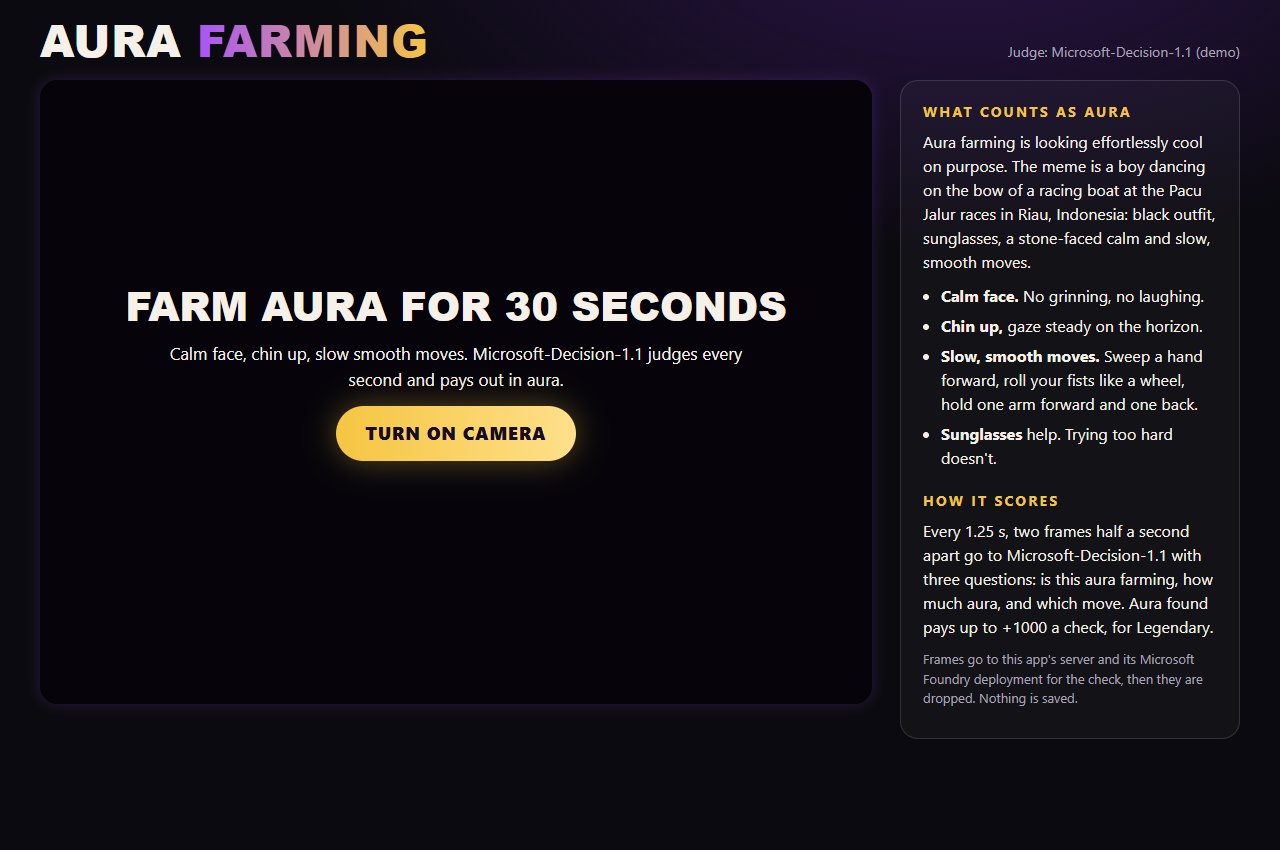
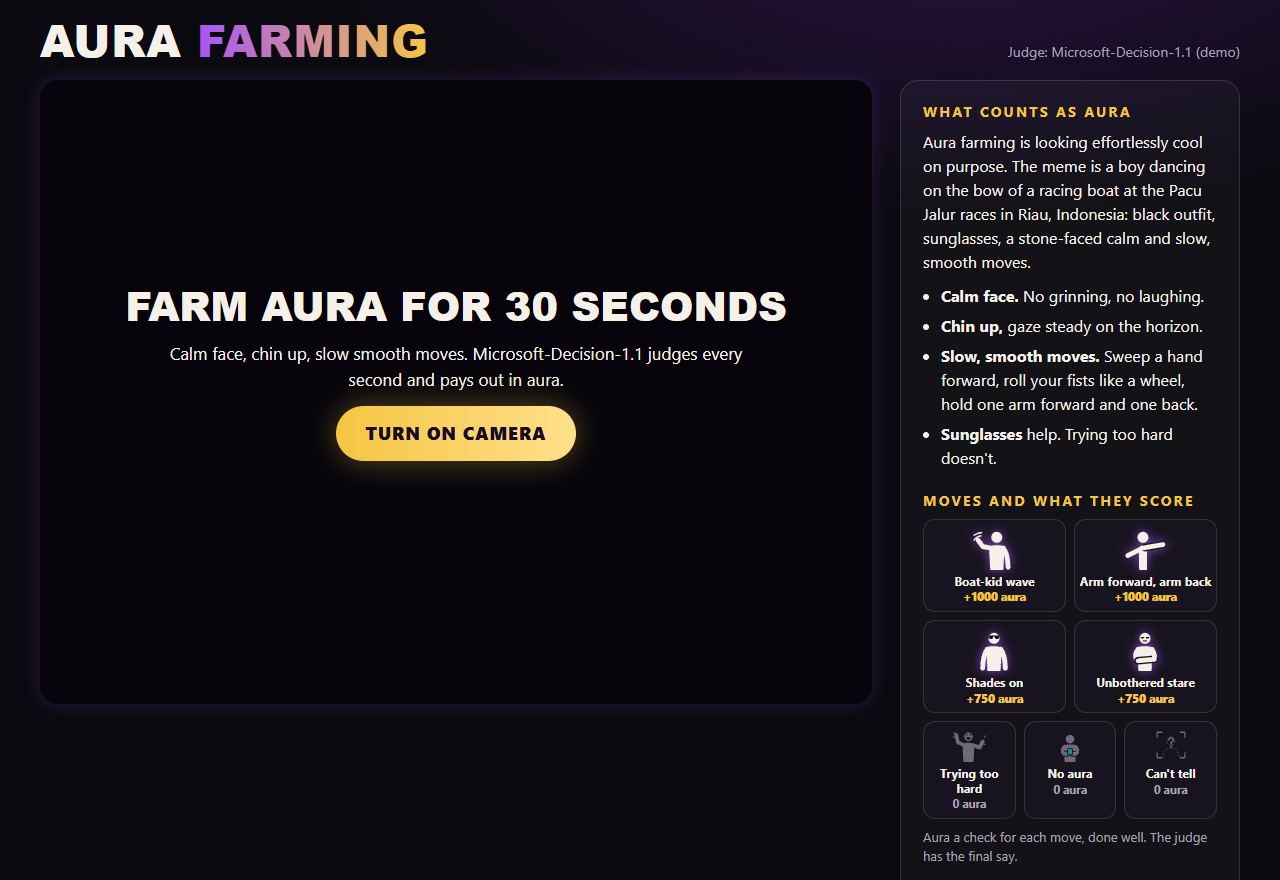
Show a silhouette of each move and what it scores in the guide
The guide on the main page gets a card for each move the judge can read: a small SVG silhouette, the move's name as the live read shows it, and what it pays a check when done well. During a round, the card for the move in the latest read lights up.

The move doesn't change the points: the cards show the level the judge's rubric ties each move to. A new test keeps the cards in step with lib/aura.js and the live-read names, and checks the page has no inline styles, which its CSP blocks. The README screenshots and text are updated, and .webappignore leaves out .idea/.

diff --git a/public/index.html b/public/index.html
@@ -73,9 +73,89 @@
       <li><b>Slow, smooth moves.</b> Sweep a hand forward, roll your fists like a wheel, hold one arm forward and one back.</li>
       <li><b>Sunglasses</b> help. Trying too hard doesn't.</li>
     </ul>
+    <h2>Moves and what they score</h2>
+    <!-- One card for each move the judge can read (lib/aura.js MOVES), named as in the live read. -->
+    <ul class="moves">
+      <li class="move" data-move="boat_kid_wave">
+        <svg viewBox="0 0 64 64" aria-hidden="true">
+          <circle cx="36" cy="16.5" r="8" fill="currentColor"/>
+          <path d="M25 35Q25 28 32 28H40Q47 28 47 35L45.5 64H26.5Z" fill="currentColor"/>
+          <path d="M27 32L16 30L9 21M45.5 32Q52 40 52.5 60" fill="none" stroke="currentColor" stroke-width="7" stroke-linecap="round" stroke-linejoin="round"/>
+          <path d="M2.9 20.8A16 16 0 0 1 13.2 14.2M2.8 13.5A20.5 20.5 0 0 1 14.2 9.6" fill="none" stroke="currentColor" stroke-width="2.2" stroke-linecap="round"/>
+        </svg>
+        <b>Boat-kid wave</b><span>+1000 aura</span>
+      </li>
+      <li class="move" data-move="arm_forward">
+        <svg viewBox="0 0 64 64" aria-hidden="true">
+          <path d="M29 32L7 43" fill="none" stroke="currentColor" stroke-width="7" stroke-linecap="round"/>
+          <circle cx="29" cy="16.5" r="8" fill="currentColor"/>
+          <path d="M23 35Q23 28 29 28Q35 28 35 35V64H23.5Z" fill="currentColor"/>
+          <path class="halo" d="M32 31.5L58 27" fill="none" stroke-width="11" stroke-linecap="round"/>
+          <path d="M29 32L58 27" fill="none" stroke="currentColor" stroke-width="7" stroke-linecap="round"/>
+        </svg>
+        <b>Arm forward, arm back</b><span>+1000 aura</span>
+      </li>
+      <li class="move" data-move="shades_on">
+        <svg viewBox="0 0 64 64" aria-hidden="true">
+          <circle cx="32" cy="16.5" r="8" fill="currentColor"/>
+          <path class="cut" d="M24.3 12.5H31V14.5Q31 17.5 28 17.5H27.3Q24.3 17.5 24.3 14.5ZM33 12.5H39.7V14.5Q39.7 17.5 36.7 17.5H36Q33 17.5 33 14.5ZM30.5 12.5H33.5V14H30.5Z"/>
+          <path d="M21 35Q21 28 28 28H36Q43 28 43 35L41.5 64H22.5Z" fill="currentColor"/>
+          <path d="M22.5 32Q16 40 15.5 60M41.5 32Q48 40 48.5 60" fill="none" stroke="currentColor" stroke-width="7" stroke-linecap="round"/>
+        </svg>
+        <b>Shades on</b><span>+750 aura</span>
+      </li>
+      <li class="move" data-move="unbothered_stare">
+        <svg viewBox="0 0 64 64" aria-hidden="true">
+          <circle cx="32" cy="16.5" r="8" fill="currentColor"/>
+          <path class="cut-line" d="M26.5 15.5H29.8M34.2 15.5H37.5" fill="none" stroke-width="2.2" stroke-linecap="round"/>
+          <path class="cut-line" d="M30 20.2H34" fill="none" stroke-width="1.6" stroke-linecap="round"/>
+          <path d="M21 35Q21 28 28 28H36Q43 28 43 35L41.5 64H22.5Z" fill="currentColor"/>
+          <path d="M22.5 32Q17.5 37 18.5 44.5L42 41" fill="none" stroke="currentColor" stroke-width="7" stroke-linecap="round" stroke-linejoin="round"/>
+          <path class="halo" d="M45.5 47L22 49" fill="none" stroke-width="11" stroke-linecap="round"/>
+          <path d="M41.5 32Q46.5 37 45.5 47L22 49" fill="none" stroke="currentColor" stroke-width="7" stroke-linecap="round" stroke-linejoin="round"/>
+        </svg>
+        <b>Unbothered stare</b><span>+750 aura</span>
+      </li>
+      <li class="move zero" data-move="trying_too_hard">
+        <svg viewBox="0 0 64 64" aria-hidden="true">
+          <circle cx="31" cy="16.5" r="8" fill="currentColor"/>
+          <path class="cut" d="M26.5 17.5H35.5Q35.5 22.5 31 22.5Q26.5 22.5 26.5 17.5Z"/>
+          <path class="cut-line" d="M26 13.5L27.6 11.8L29.2 13.5M32.8 13.5L34.4 11.8L36 13.5" fill="none" stroke-width="1.6" stroke-linecap="round" stroke-linejoin="round"/>
+          <path d="M20 35Q20 28 27 28H35Q42 28 42 35L40.5 64H21.5Z" fill="currentColor"/>
+          <path d="M22 32L11 27L8 13M40 32L52 37L58 25" fill="none" stroke="currentColor" stroke-width="7" stroke-linecap="round" stroke-linejoin="round"/>
+          <path d="M3 9L5.5 11.5M2 17L5.5 17.5M61 18L62.5 14.5M62 31L58.5 30" fill="none" stroke="currentColor" stroke-width="2" stroke-linecap="round"/>
+        </svg>
+        <b>Trying too hard</b><span>0 aura</span>
+      </li>
+      <li class="move zero" data-move="no_aura">
+        <svg viewBox="0 0 64 64" aria-hidden="true">
+          <circle cx="32" cy="21" r="8" fill="currentColor"/>
+          <path d="M20 39Q20 31 28 31H36Q44 31 44 39L42 64H22Z" fill="currentColor"/>
+          <path class="halo" d="M18.5 46Q19.5 50 27.5 48.5M45.5 46Q44.5 50 36.5 48.5" fill="none" stroke-width="11" stroke-linecap="round"/>
+          <path d="M21.5 35Q16.5 41 18.5 46Q19.5 50 27.5 48.5M42.5 35Q47.5 41 45.5 46Q44.5 50 36.5 48.5" fill="none" stroke="currentColor" stroke-width="7" stroke-linecap="round" stroke-linejoin="round"/>
+          <rect class="cut" x="26.5" y="38" width="11" height="13.5" rx="2.6"/>
+          <rect class="screen" x="28.2" y="39.7" width="7.6" height="10.1" rx="1.3"/>
+        </svg>
+        <b>No aura</b><span>0 aura</span>
+      </li>
+      <li class="move zero" data-move="cannot_tell">
+        <svg viewBox="0 0 64 64" aria-hidden="true">
+          <path d="M6 17V8H15M49 8H58V17M58 47V56H49M15 56H6V47" fill="none" stroke="currentColor" stroke-width="2.5" stroke-linecap="round" stroke-linejoin="round"/>
+          <g fill="none" stroke="currentColor" stroke-width="2" stroke-dasharray="3 3" opacity=".6">
+            <circle cx="32" cy="25" r="7.5"/>
+            <path d="M17 56Q17 38 32 38Q47 38 47 56"/>
+          </g>
+          <path d="M27.8 22.5A4.4 4.4 0 1 1 34.3 26.3C32.9 27.1 32.2 28 32.2 29.6V30.6" fill="none" stroke="currentColor" stroke-width="3" stroke-linecap="round"/>
+          <circle cx="32.2" cy="35.4" r="1.9" fill="currentColor"/>
+        </svg>
+        <b>Can't tell</b><span>0 aura</span>
+      </li>
+    </ul>
+    <p class="fine">Aura a check for each move, done well. The judge has the final say.</p>
     <h2>How it scores</h2>
     <p>Every 1.25 s, two frames half a second apart go to Microsoft-Decision-1.1 with three questions: is this aura
-      farming, how much aura, and which move. Aura found pays up to +1000 a check, for Legendary.</p>
+      farming, how much aura, and which move. Aura found pays by level, times how sure the judge is: A trace +250, Some
+      aura +500, Main character +750, Legendary +1000.</p>
     <p class="fine">Frames go to this app's server and its Microsoft Foundry deployment for the check, then they are
       dropped. Nothing is saved.</p>
   </aside>

diff --git a/public/style.css b/public/style.css
@@ -124,17 +124,41 @@ button { font: inherit; }
 
 .info { min-height: 1.5em; margin: 10px 2px 0; color: var(--dim); font-size: 14px; }
 
-.guide { padding: 20px 22px; border: 1px solid var(--line); border-radius: 18px; background: rgb(255 255 255 / .03); }
+.guide { container-type: inline-size; padding: 20px 22px; border: 1px solid var(--line); border-radius: 18px; background: rgb(255 255 255 / .03); }
 .guide h2 { margin: 0 0 8px; font-size: 14px; letter-spacing: .16em; text-transform: uppercase; color: var(--gold); }
 .guide h2 ~ h2 { margin-top: 20px; }
 .guide p { margin: 0 0 10px; }
 .tips { margin: 0; padding-left: 18px; }
 .tips li { margin: 6px 0; }
+
+/* The moves the judge can read: aura moves two to a row, the ones that pay nothing three to a row, all seven in one
+   row when the guide is wide. .on marks the move in the latest read. --card also colours the gaps and cutouts. */
+.moves { display: grid; grid-template-columns: repeat(6, minmax(0, 1fr)); gap: 8px; margin: 0 0 8px; padding: 0; list-style: none; }
+.move { --card: #17131f; grid-column: span 3; display: flex; flex-direction: column; align-items: center; gap: 2px;
+  padding: 6px 3px 7px; border: 1px solid var(--line); border-radius: 12px; background: var(--card); text-align: center;
+  font-size: 12px; line-height: 1.2; transition: border-color .3s, box-shadow .3s; }
+.move svg { width: 60px; height: 44px; margin-bottom: 2px; overflow: visible; color: var(--ink);
+  filter: drop-shadow(0 0 5px rgb(168 85 247 / .75)); transition: color .3s; }
+.move span { font-size: 11.5px; font-weight: 800; color: var(--gold); }
+.move.zero { grid-column: span 2; }
+.move.zero svg { width: 44px; height: 34px; color: var(--dim); opacity: .6; filter: none; }
+.move.zero span { color: var(--dim); font-weight: 700; }
+.move.on { border-color: var(--gold); box-shadow: 0 0 18px rgb(245 197 66 / .35); }
+.move.on svg { color: var(--gold); opacity: 1; }
+.move .halo { stroke: var(--card); }
+.move .cut { fill: var(--card); }
+.move .cut-line { stroke: var(--card); }
+.move .screen { fill: var(--cyan); }
+@container (min-width: 560px) {
+  .moves { grid-template-columns: repeat(7, minmax(0, 1fr)); }
+  .move, .move.zero { grid-column: auto; }
+  .move.zero svg { height: 44px; padding: 5px 0; } /* same box as the aura moves, so the names line up */
+}
 .fine { color: var(--dim); font-size: 13px; }
 
 @media (prefers-reduced-motion: reduce) {
   .glow::before, .stage.found .glow, .panel-countdown b.beat { animation: none; }
   .pop { animation-name: fade; }
-  .stage, .meter i { transition: none; }
+  .stage, .meter i, .move, .move svg { transition: none; }
 }
 @keyframes fade { 0%, 70% { opacity: 1; } 100% { opacity: 0; } }

diff --git a/test/page.test.js b/test/page.test.js
@@ -1,0 +1,46 @@
+import assert from "node:assert/strict";
+import { readFile } from "node:fs/promises";
+import { describe, it } from "node:test";
+import { AURA_LEVELS, MOVES, POINTS_PER_LEVEL } from "../lib/aura.js";
+
+const read = (file) => readFile(new URL(`../public/${file}`, import.meta.url), "utf8");
+const page = await read("index.html");
+const app = await read("app.js");
+
+// The guide's move cards: <li class="move" data-move="..."><svg>...</svg><b>Name</b><span>Points</span></li>
+const cards = [...page.matchAll(/<li class="move[^"]*" data-move="(\w+)">([\s\S]*?)<\/li>/g)].map(([, move, body]) => ({
+  move,
+  body,
+  name: body.match(/<b>([^<]+)<\/b>/)?.[1],
+  points: body.match(/<span>([^<]+)<\/span>/)?.[1],
+}));
+// The judge's moves that aren't aura farming, so pay nothing.
+const ZERO = ["trying_too_hard", "no_aura", "cannot_tell"];
+
+describe("the guide's moves", () => {
+  it("has a card with a silhouette for every move the judge can read", () => {
+    assert.deepEqual(cards.map((card) => card.move).sort(), Object.keys(MOVES).sort());
+    for (const { move, body } of cards) assert.match(body, /<svg viewBox="0 0 64 64" aria-hidden="true">[\s\S]+<\/svg>/, move);
+  });
+
+  it("names each move as the live read does", () => {
+    for (const { move, name } of cards) assert.ok(app.includes(`${move}: "${name}"`), `${move} is "${name}" on the page`);
+  });
+
+  it("shows nothing for the moves that aren't aura, and a level's points, at most Legendary's, for the rest", () => {
+    const legendary = POINTS_PER_LEVEL * (AURA_LEVELS.length - 1);
+    for (const { move, points } of cards) {
+      if (ZERO.includes(move)) {
+        assert.equal(points, "0 aura", move);
+        assert.match(page, new RegExp(`class="move zero" data-move="${move}"`), `${move} is styled as paying nothing`);
+        continue;
+      }
+      const value = Number(points?.match(/^\+(\d+) aura$/)?.[1]);
+      assert.ok(value > 0 && value <= legendary && value % POINTS_PER_LEVEL === 0, `${move}: ${points}`);
+    }
+  });
+
+  it("has no inline styles, which the page's Content-Security-Policy blocks", () => {
+    assert.doesNotMatch(page, /\sstyle=/);
+  });
+});

diff --git a/public/app.js b/public/app.js
@@ -38,6 +38,7 @@ const ui = {
   timer: $("timer"), timebar: $("timebar"), total: $("total"), level: $("level"), move: $("move"), meter: $("meter"), pops: $("pops"),
   bestLine: $("best-line"), resTotal: $("res-total"), resRank: $("res-rank"), resLine: $("res-line"), resBest: $("res-best"),
   resImg: $("res-img"), resCap: $("res-cap"), resStats: $("res-stats"), resRecord: $("res-record"),
+  moves: document.querySelectorAll(".move[data-move]"),
 };
 
 const canvas = document.createElement("canvas");
@@ -225,12 +226,18 @@ function showRead(verdict) {
   ui.meter.style.transform = `scaleX(${aura})`;
   ui.level.textContent = verdict ? verdict.levelName : "Reading your aura…";
   ui.move.textContent = verdict?.move ? MOVE_LABELS[verdict.move] : "";
+  markMove(verdict?.move);
   ui.stage.classList.remove("found");
   if (verdict?.found) {
     void ui.stage.offsetWidth; // restart the flare
     ui.stage.classList.add("found");
   }
   if (verdict) ui.info.textContent = `${game.checks} checks · aura ${Math.round(aura * 100)}% · ${verdict.latencyMs} ms`;
+}
+
+/** Lights up the guide's card for the move the judge just read; no move clears it. */
+function markMove(move) {
+  for (const card of ui.moves) card.classList.toggle("on", card.dataset.move === move);
 }
 
 function pop(points) {
@@ -253,6 +260,7 @@ function endRound(round) {
 
 function showResults(round) {
   if (game.phase !== "judging" || game.round !== round) return;
+  markMove(null);
   const [, rank, line] = RANKS.find(([min]) => game.total >= min);
   ui.resTotal.textContent = game.total.toLocaleString();
   ui.resRank.textContent = rank;

diff --git a/README.md b/README.md
@@ -15,15 +15,17 @@ model evaluations. The splash artwork is AI-generated.
 
 ### Camera setup and aura guide
 
-Turn on your camera and learn which expressions, poses and moves earn aura.
+Turn on your camera and learn which expressions, poses and moves earn aura. Each move the judge can read has a small
+silhouette and what it pays a check.
 
-![Camera setup alongside the aura guide and scoring explanation](docs/images/features.png)
+![Camera setup alongside the aura guide, with a silhouette of each move and what it scores](docs/images/features.png)
 
 ### Live aura scoring
 
 A 30-second timer, running total, confidence meter, recognized moves, glowing camera border and floating aura payouts.
+The guide lights up the move the judge just read.
 
-![Live scoring with a Legendary verdict, Boat-kid wave and a floating aura payout](docs/images/live-scoring.png)
+![Live scoring with a Legendary verdict, Boat-kid wave lit up in the guide and a floating aura payout](docs/images/live-scoring.png)
 
 ### Round results and personal best
 
@@ -55,10 +57,12 @@ frames go in the request's `assets` and the state refers to them as `image:frame
 | --- | --- | --- | --- |
 | Is the player aura farming? | `noul` | a probability | Aura is found at 0.5 or more |
 | How much aura? | `score` | No aura, A trace, Some aura, Main character, Legendary | The points |
-| What is the player doing? | `choice` | Boat-kid wave, Arm forward, Unbothered stare, Shades on, Trying too hard, No aura, Can't tell | The live read |
+| What is the player doing? | `choice` | Boat-kid wave, Arm forward, Unbothered stare, Shades on, Trying too hard, No aura, Can't tell | The live read, and the move lit up in the guide |
 
 A check pays `250 × level × probability`, rounded to 10, and only when aura is found. Certain Legendary aura is the
-meme's "+1000 aura". A round makes about 24 checks, and the total sets your rank:
+meme's "+1000 aura". The move doesn't change the points, but the guide shows what each move pays when done well: the
+boat-kid moves are the flowing moves the Legendary level asks for (+1000), the still poses fit Main character (+750), and
+the rest pay nothing. A round makes about 24 checks, and the total sets your rank:
 
 | Aura | Rank |
 | --- | --- |
